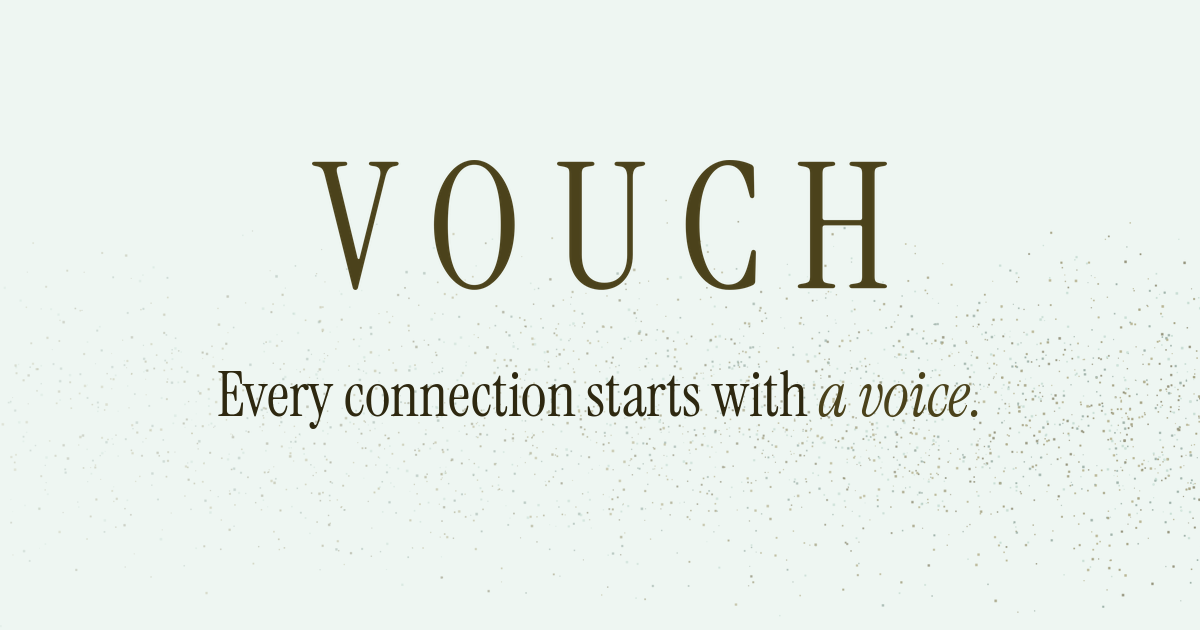
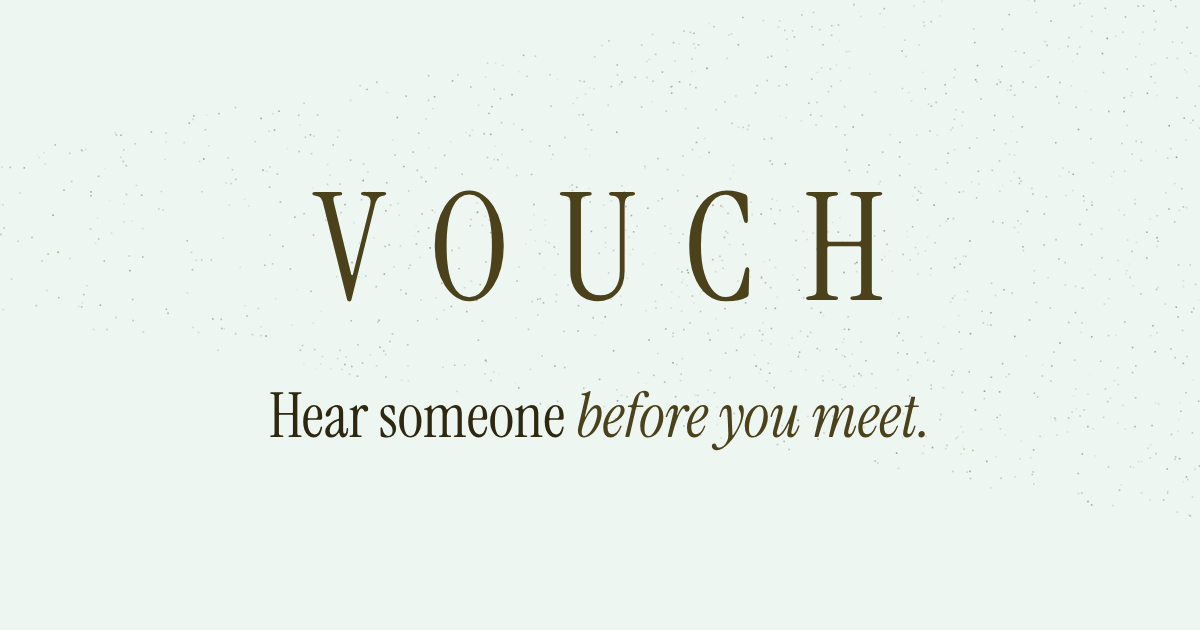
Register page: a real headline, the app on a phone, a skippable welcome
- Headline: The dating app where friends vouch for you; the dust lines say Hear someone before you meet (no 'connection')
- Three reasons with their detail instead of sparkle bullets; the app's Today card on a phone beside the form (wide screens) or above it
- The welcome screen shows once per device and has Skip
- Readable hint text, a focus ring on every control; share image and descriptions reworded

Claude-Session: https://claude.ai/code/session_01FCm15ht3jdsutYmBDbndHs

diff --git a/index.html b/index.html
@@ -7,18 +7,18 @@
 <meta charset="utf-8">
 <meta name="viewport" content="width=device-width, initial-scale=1, viewport-fit=cover">
 <title>Vouch · Register your interest</title>
-<meta name="description" content="Invite-only dating for everyone across the UK. Register your interest in Vouch.">
+<meta name="description" content="The dating app where friends vouch for you. Invite-only, for everyone across the UK. Register your interest in Vouch.">
 <!-- How the link looks when shared (WhatsApp, iMessage, X, Facebook, LinkedIn): share.png, at the page's address
      https://joinvouch.github.io (GitHub Pages, repository joinvouch/joinvouch.github.io). -->
 <meta property="og:type" content="website">
 <meta property="og:site_name" content="Vouch">
 <meta property="og:title" content="Vouch · Register your interest">
-<meta property="og:description" content="Invite-only dating for everyone across the UK. Every member ID-checked and vouched for. Every connection starts with a voice.">
+<meta property="og:description" content="The dating app where friends vouch for you. Invite-only, for everyone across the UK: every member ID-checked and vouched for, and you hear someone before you meet.">
 <meta property="og:url" content="https://joinvouch.github.io/">
 <meta property="og:image" content="https://joinvouch.github.io/share.png">
 <meta property="og:image:width" content="1200">
 <meta property="og:image:height" content="630">
-<meta property="og:image:alt" content="VOUCH. Every connection starts with a voice.">
+<meta property="og:image:alt" content="VOUCH. Hear someone before you meet them.">
 <meta name="twitter:card" content="summary_large_image">
 <meta name="twitter:image" content="https://joinvouch.github.io/share.png">
 <link rel="icon" type="image/svg+xml" href="icon.svg">
@@ -39,7 +39,13 @@
   * { box-sizing: border-box; }
   html, body { margin: 0; background: var(--paper); color: var(--ink); font-family: Manrope, system-ui, sans-serif; }
   body { min-height: 100vh; min-height: 100dvh; display: flex; justify-content: center; padding: 0 16px; }
-  main { width: 100%; max-width: 420px; padding: max(48px, env(safe-area-inset-top)) 0 max(32px, env(safe-area-inset-bottom)); display: flex; flex-direction: column; gap: 22px; }
+  main { width: 100%; max-width: 420px; padding: max(40px, env(safe-area-inset-top)) 0 max(32px, env(safe-area-inset-bottom)); display: flex; flex-direction: column; gap: 22px; }
+  .intro { display: flex; flex-direction: column; gap: 18px; }
+  /* the headline says what Vouch is, in words a screen reader and a search engine can read */
+  .headline { font-family: 'Instrument Serif', serif; font-weight: 400; font-size: clamp(38px, 10vw, 58px); line-height: 1.02; letter-spacing: -.01em; margin: 0; text-align: center; text-wrap: balance; }
+  .headline em { font-style: italic; color: var(--accent); }
+  .brand { font-family: 'Instrument Serif', serif; font-size: 22px; letter-spacing: .32em; padding-left: .32em; margin: 0; text-align: center; color: var(--ink); }
+  .note { font-size: 13px; color: var(--muted); text-align: center; }
   /* The wordmark: Instrument Serif has one weight, so the heading must not be bold (the browser would fake it), and 18% letter spacing, as in the app. */
   .wordmark { font-family: 'Instrument Serif', serif; font-weight: 400; font-size: min(64px, 15vw); line-height: .9; letter-spacing: .18em; padding-left: .18em; margin: 0; text-align: center; }
   .eyebrow { font: 500 10.5px 'JetBrains Mono', monospace; letter-spacing: .13em; text-transform: uppercase; color: var(--muted); text-align: center; margin: 0; }
@@ -50,10 +56,10 @@
   .hero canvas { position: absolute; inset: 0; width: 100%; height: 100%; }
   .sr { position: absolute; width: 1px; height: 1px; overflow: hidden; clip: rect(0 0 0 0); white-space: nowrap; }
   p { margin: 0; line-height: 1.5; }
-  .lede { color: var(--muted); font-size: 15px; text-align: center; }
+  .lede { color: var(--muted); font-size: 16px; text-align: center; }
   form { display: flex; flex-direction: column; gap: 14px; background: var(--card); border: 1px solid var(--line); border-radius: 18px; padding: 20px; }
   label { display: flex; flex-direction: column; gap: 6px; font-size: 13px; font-weight: 600; }
-  label small { font-weight: 400; color: var(--muted); }
+  label small { font-weight: 400; font-size: 12.5px; color: var(--muted); }
   input[type=date] { min-height: 50px; text-align: left; }
   input[type=date]::-webkit-date-and-time-value { text-align: left; }
   input, select { font: 500 16px Manrope, system-ui, sans-serif; color: var(--ink); background: var(--paper); border: 1px solid var(--line); border-radius: 12px; padding: 12px 14px; width: 100%; appearance: none; }
@@ -72,9 +78,44 @@
   .error { color: var(--warn); font-size: 13px; min-height: 1em; margin: -4px 0 0; }
   .done { text-align: center; background: var(--card); border: 1px solid var(--line); border-radius: 18px; padding: 28px 20px; display: flex; flex-direction: column; gap: 10px; }
   .done .tick { font-size: 34px; color: var(--accent); }
-  .points { list-style: none; padding: 0; margin: 0; display: flex; flex-direction: column; gap: 10px; font-size: 14px; }
-  .points li { display: flex; gap: 10px; align-items: baseline; }
-  .points li::before { content: '✦'; color: var(--accent); font-size: 11px; }
+  /* the three reasons: a short name, then the one detail that makes it true */
+  .points { list-style: none; padding: 0; margin: 0; display: grid; gap: 1px; background: var(--line); border: 1px solid var(--line); border-radius: 18px; overflow: hidden; }
+  .points li { display: flex; flex-direction: column; gap: 2px; padding: 13px 16px; background: var(--card); font-size: 14px; line-height: 1.45; color: var(--muted); }
+  .points b { font-weight: 700; color: var(--ink); font-size: 14.5px; }
+  button:focus-visible, summary:focus-visible, select:focus-visible { outline: 2px solid var(--accent); outline-offset: 3px; }
+  /* The app itself, on a phone: today's pick, as members see it (the app's own card) */
+  .preview { margin: 0; display: flex; justify-content: center; }
+  .phone { width: 272px; border-radius: 46px; padding: 10px; background: #1C1F1D; box-shadow: 0 2px 4px rgba(46,40,16,.1), 0 30px 60px -20px rgba(46,40,16,.45); }
+  .screen { border-radius: 37px; background: radial-gradient(120% 70% at 50% 0%, #F6FBF8 0%, #EEF6F2 55%, #E3EFE9 100%); color: #2E2810; padding: 26px 14px 14px; display: flex; flex-direction: column; gap: 12px; font-family: Manrope, system-ui, sans-serif; }
+  .s-head b { display: block; font: 400 30px/1 'Instrument Serif', serif; }
+  .s-head span { font-size: 10.5px; color: #5C5843; }
+  .s-card { border-radius: 22px; background: #FAFDFB; padding: 16px; display: flex; flex-direction: column; gap: 10px; box-shadow: 0 4px 10px rgba(46,40,16,.10), 0 24px 48px -12px rgba(46,40,16,.3); }
+  .s-top { display: flex; justify-content: space-between; font: 500 8.5px 'JetBrains Mono', monospace; letter-spacing: .14em; text-transform: uppercase; color: #5C5843; }
+  .s-name { display: flex; align-items: center; gap: 7px; flex-wrap: wrap; font: 400 30px/1 'Instrument Serif', serif; }
+  .s-pill { display: inline-flex; align-items: center; gap: 3px; height: 16px; padding: 0 6px 0 2px; border-radius: 9px; background: #F5E7C4; border: 1px solid rgba(212,167,63,.55); font: 700 8.5px Manrope, sans-serif; color: #5C4310; }
+  .s-pill i { width: 12px; height: 12px; border-radius: 50%; background: #D4A73F; color: #3B2A0B; display: grid; place-items: center; font: normal 400 8px 'Instrument Serif', serif; }
+  .s-meta { font-size: 11px; color: #5C5843; margin-top: -4px; }
+  .s-why { border-radius: 14px; background: #EEF6F2; padding: 10px 11px; display: flex; flex-direction: column; gap: 6px; font-size: 11px; }
+  .s-why > span { font: 500 8px 'JetBrains Mono', monospace; letter-spacing: .14em; text-transform: uppercase; color: #5C5843; }
+  .s-why p { display: flex; gap: 7px; align-items: center; line-height: 1.3; }
+  .s-why p::before { content: '✓'; flex: none; width: 15px; height: 15px; border-radius: 50%; background: #4B421B; color: #D7EAE2; display: grid; place-items: center; font: 700 8.5px Manrope, sans-serif; }
+  .s-quote { font: italic 400 15px/1.3 'Instrument Serif', serif; }
+  .s-quote small { display: block; margin-top: 4px; font: 400 9.5px Manrope, sans-serif; color: #5C5843; }
+  .s-actions { display: flex; gap: 8px; align-items: center; }
+  .s-actions span:first-child { flex: none; width: 44px; height: 44px; border-radius: 50%; background: rgba(250,253,251,.8); display: grid; place-items: center; color: #5C5843; font-size: 16px; box-shadow: 0 10px 22px -10px rgba(46,40,16,.3); }
+  .s-actions span:last-child { flex: 1; height: 44px; border-radius: 22px; background: #4B421B; color: #D7EAE2; display: grid; place-items: center; font: 600 12px Manrope, sans-serif; box-shadow: 0 6px 16px -8px rgba(46,40,16,.45); }
+  /* Wide screens: the words and the form on the left, the app on the right, both inside the same two edges */
+  @media (min-width: 960px) {
+    main { max-width: 1040px; display: grid; grid-template-columns: minmax(0, 460px) minmax(0, 1fr); column-gap: 72px; align-items: start; padding-top: 64px; }
+    main > * { grid-column: 1; }
+    .preview { grid-column: 2; grid-row: 1 / span 3; position: sticky; top: 48px; justify-content: flex-end; }
+    .phone { width: 340px; }
+    .hero { height: 64px; }
+    .brand, .headline, .lede, .note { text-align: left; }
+    .brand { padding-left: 0; }
+    .hero { width: 100%; margin-left: 0; }
+    footer { grid-column: 1 / -1; }
+  }
   footer { text-align: center; color: var(--muted); font-size: 12px; }
   [hidden] { display: none !important; }
   /* Welcome in: a full-screen greeting with a microphone. Tapping it bursts the greeting into dust and reveals the page. */
@@ -82,6 +123,8 @@
   .welcome canvas { position: absolute; inset: 0; width: 100%; height: 100%; }
   .welcome button { position: absolute; width: 120px; height: 120px; border-radius: 50%; transform: translate(-50%, -50%); background: transparent; border: 0; padding: 0; cursor: pointer; -webkit-tap-highlight-color: transparent; }
   .welcome button:focus-visible { outline: 2px solid var(--accent); outline-offset: 6px; }
+  .welcome #welcome-skip { width: auto; height: 44px; top: max(16px, env(safe-area-inset-top)); right: 12px; left: auto; transform: none; border-radius: 22px; padding: 0 16px;
+    background: transparent; color: var(--muted); font: 600 14px Manrope, system-ui, sans-serif; }
   body.welcoming { overflow: hidden; }
   /* The intro covers the screen down to the browser's toolbar, but on iPhone the page carries on behind the toolbar:
      keep the form out of sight until the greeting bursts, then fade it in as the dust clears. */
@@ -95,19 +138,37 @@
   <canvas id="welcome-canvas" aria-hidden="true"></canvas>
   <h1 class="sr">Welcome in</h1>
   <button id="welcome-mic" type="button" aria-label="Welcome in. Tap the microphone to come in"></button>
+  <button id="welcome-skip" type="button">Skip</button>
 </div>
 <main>
-  <div>
-    <h1 class="wordmark">VOUCH</h1>
+  <div class="intro">
+    <p class="brand" aria-hidden="true">VOUCH</p>
+    <h1 class="headline">The dating app where <em>friends vouch</em> for&nbsp;you</h1>
+    <div class="hero"><span class="sr">Hear someone before you meet them. Vouched for by people who know them. A few good picks a day.</span><canvas id="hero" aria-hidden="true"></canvas></div>
+    <p class="lede">Invite-only, for everyone across the UK. Register your interest and we’ll email you when registration opens.</p>
   </div>
-  <h2 class="hero"><span class="sr">Real people, real connections. Hear the person, not just the profile. Every connection starts with a voice.</span><canvas id="hero" aria-hidden="true"></canvas></h2>
-  <p class="lede">An invite-only dating app for everyone across the UK, where every member is vouched for by someone who knows them. Register your interest and we’ll email you when registration opens.</p>
 
   <ul class="points">
-    <li>Every member passes an ID check and is vouched for by friends</li>
-    <li>Conversations start with a voice, not just a profile</li>
-    <li>Places are limited each month</li>
+    <li><b>Vouched for by friends</b>People who know each member say who they are, in their own words.</li>
+    <li><b>ID-checked</b>Every member passes an ID check before they join.</li>
+    <li><b>You hear them first</b>Openers are voice notes, so you hear someone before you meet them.</li>
   </ul>
+
+  <figure class="preview" role="img" aria-label="Vouch on a phone: one of today’s picks, Daniel, 31, with why you two were picked, a friend’s words about him, and the button to hold and send him an opener.">
+    <div class="phone" aria-hidden="true"><div class="screen">
+      <div class="s-head"><b>Today</b><span>3 picks · 3 openers left until Monday</span></div>
+      <div class="s-card">
+        <div class="s-top"><span>Picked for you today</span><span>1 mi away</span></div>
+        <div class="s-name">Daniel, 31 <span class="s-pill"><i>V</i>Reserve</span></div>
+        <div class="s-meta">Creative director · Shoreditch · ✓ ID-checked</div>
+        <div class="s-why"><span>Why you two</span><p>Both looking for long-term</p><p>Both open to children</p><p>Vouched for by 2 people who know him</p></div>
+        <p class="s-quote">“Daniel is the friend who turns up with soup before you’ve said you’re ill.”<small>Hannah R., who vouched for Daniel</small></p>
+      </div>
+      <div class="s-actions"><span>✕</span><span>Hold to send an opener</span></div>
+    </div></div>
+  </figure>
+
+  <p class="note">Places are limited each month.</p>
 
   <form id="form" novalidate>
     <label>Your first name
@@ -157,7 +218,7 @@
       <summary>How we use your details</summary>
       <p>This is to register your interest in Vouch. We keep your first name, email, date of birth, region and, if you tell us, your gender, and use them only for that: to know who’s interested and where, and to email you when registration opens. Your date of birth confirms you’re 18 or over. Your gender only helps us invite a good mix of people, and you can leave it blank. We never sell or share your details.</p>
       <p>They’re stored securely in the UK by our database provider. We keep them for up to 12 months after registration opens, or until you ask us to delete them, whichever comes first. To see or delete your details, reply to any email we send you, or message us on Instagram or TikTok.</p>
-      <p>To stop scripts filling the list, we keep a scrambled code for your internet connection for one day, then delete it.</p>
+      <p>To stop scripts filling the list, we keep a scrambled code made from your internet address for one day, then delete it.</p>
     </details>
     <p class="error" id="error" role="alert"></p>
     <button id="send" type="submit">Register my interest</button>
@@ -208,7 +269,7 @@
       form.hidden = true;
       document.getElementById('done').hidden = false;
     } catch (err) {
-      error.textContent = err.message === 'Failed to fetch' ? 'Couldn’t connect. Check your internet and try again.' : err.message;
+      error.textContent = err.message === 'Failed to fetch' ? 'Couldn’t reach Vouch. Check your internet and try again.' : err.message;
       send.disabled = false; send.textContent = 'Register my interest';
     }
   });
@@ -218,9 +279,9 @@
   // out to the right edge. Text colours come from the page's colours, so it follows light and dark mode.
   (() => {
     const LINES = [
-      [['Real people, real connections.', false]],
-      [['Hear the person, not just the profile.', false]],
-      [['Every connection starts with ', false], ['a voice.', true]],
+      [['Hear someone ', false], ['before you meet.', true]],
+      [['Vouched for by people ', false], ['who know them.', true]],
+      [['A few good picks ', false], ['a day.', true]],
     ];
     const SPECKS = { light: ['#4B421B', '#6B5F2A', '#8C7F45', '#A9C9BB', '#5E7A6E'], dark: ['#D7EAE2', '#F0DC9A', '#A9C9BB', '#5E7A6E', '#EEF6F2'] };
     const PERIOD = 5000, FORM = 1700, OUT = 1700;   // ms: a line every 5 seconds
@@ -231,6 +292,7 @@
     const cssVar = n => getComputedStyle(document.documentElement).getPropertyValue(n).trim();
     const rnd = (a, b) => a + Math.random() * (b - a);
     const easeOut = k => 1 - Math.pow(1 - k, 3), easeIn = k => k * k * k;
+    const leftAligned = () => matchMedia('(min-width: 960px)').matches;
 
     // Lay a line out (wrapping onto two rows if it's too wide), draw it off-screen, and turn its pixels into dust.
     function build(line) {
@@ -252,7 +314,7 @@
       const ink = cssVar('--ink'), accent = cssVar('--accent');
       const top = H / 2 - (rows.length - 1) * lh / 2;
       rows.forEach((row, i) => {
-        const total = row.reduce((a, [, , ww]) => a + ww, 0); let x = (W - total) / 2;
+        const total = row.reduce((a, [, , ww]) => a + ww, 0); let x = leftAligned() ? 0 : (W - total) / 2;   // left on wide screens, with the headline
         row.forEach(([w, em, ww]) => { c.font = font(em, size); c.fillStyle = em ? accent : ink; c.fillText(w, x, top + i * lh); x += ww; });
       });
       const data = c.getImageData(0, 0, off.width, off.height).data, step = Math.max(2, Math.round(2 * dpr)), out = [];
@@ -314,6 +376,13 @@
   // Enter) and everything on it bursts outwards as dust while the background fades, revealing the register page.
   (() => {
     const wrap = document.getElementById('welcome'), canvas = document.getElementById('welcome-canvas'), btn = document.getElementById('welcome-mic');
+    // Only the first visit: once you've come in (or skipped), the page opens straight away.
+    const SEEN = 'vouch-welcomed';
+    const remember = () => { try { localStorage.setItem(SEEN, '1'); } catch (e) { /* private browsing */ } };
+    const finish = () => { wrap.remove(); document.body.classList.remove('welcoming', 'revealing'); window.vouchHeroRestart?.(); const m = document.querySelector('main'); m.tabIndex = -1; m.focus({ preventScroll: true }); };
+    let seen = false; try { seen = localStorage.getItem(SEEN) === '1'; } catch (e) { /* private browsing */ }
+    if (seen) return finish();
+    document.getElementById('welcome-skip').addEventListener('click', () => { remember(); cancelAnimationFrame(raf); finish(); });
     const ctx = canvas.getContext('2d'), dark = matchMedia('(prefers-color-scheme: dark)');
     const SPECKS = { light: ['#4B421B', '#6B5F2A', '#8C7F45', '#A9C9BB', '#5E7A6E'], dark: ['#D7EAE2', '#F0DC9A', '#A9C9BB', '#5E7A6E', '#EEF6F2'] };
     const cssVar = n => getComputedStyle(document.documentElement).getPropertyValue(n).trim();
@@ -380,7 +449,7 @@
           s: .9 + Math.random() * 1.6, d: dist / 2.2 * Math.random() * .5,
           c: Math.random() < .7 ? `rgb(${d[i]},${d[i + 1]},${d[i + 2]})` : specks[Math.floor(Math.random() * specks.length)] });
       }
-      burst = { parts, t0: performance.now() };
+      burst = { parts, t0: performance.now() }; remember();
       document.body.classList.add('revealing');
       window.vouchHeroRestart?.();
       requestAnimationFrame(boom);
